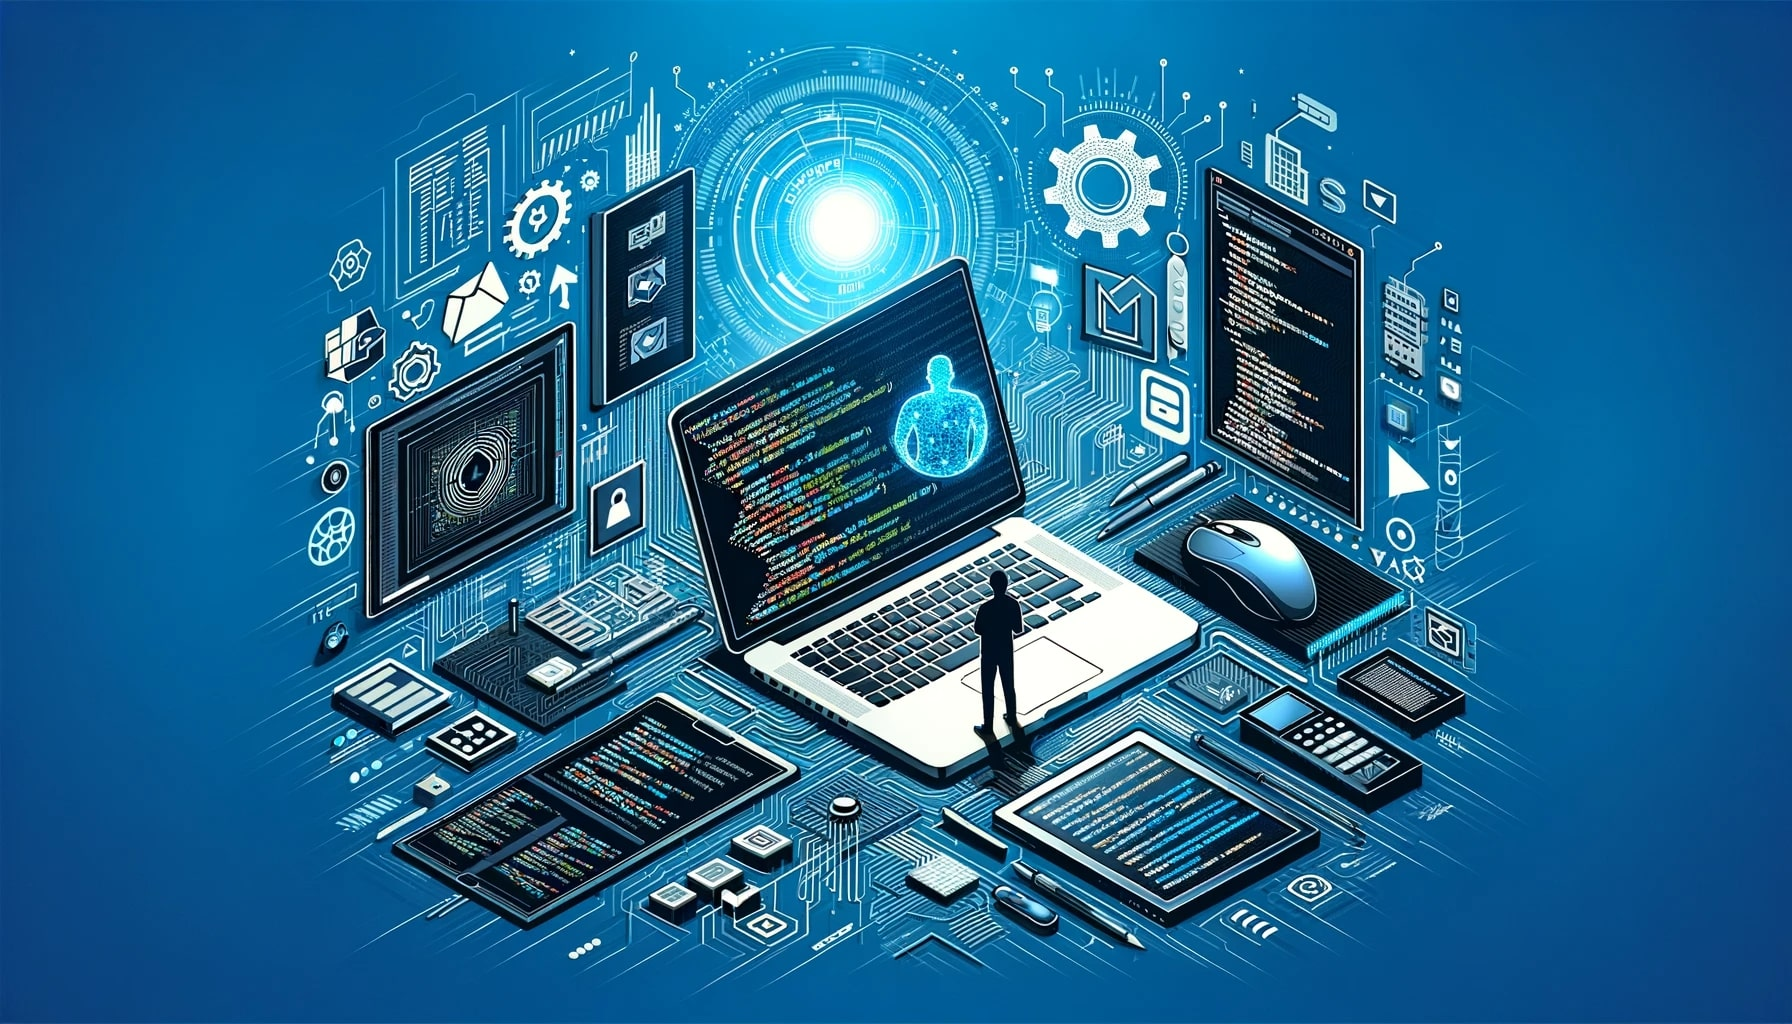
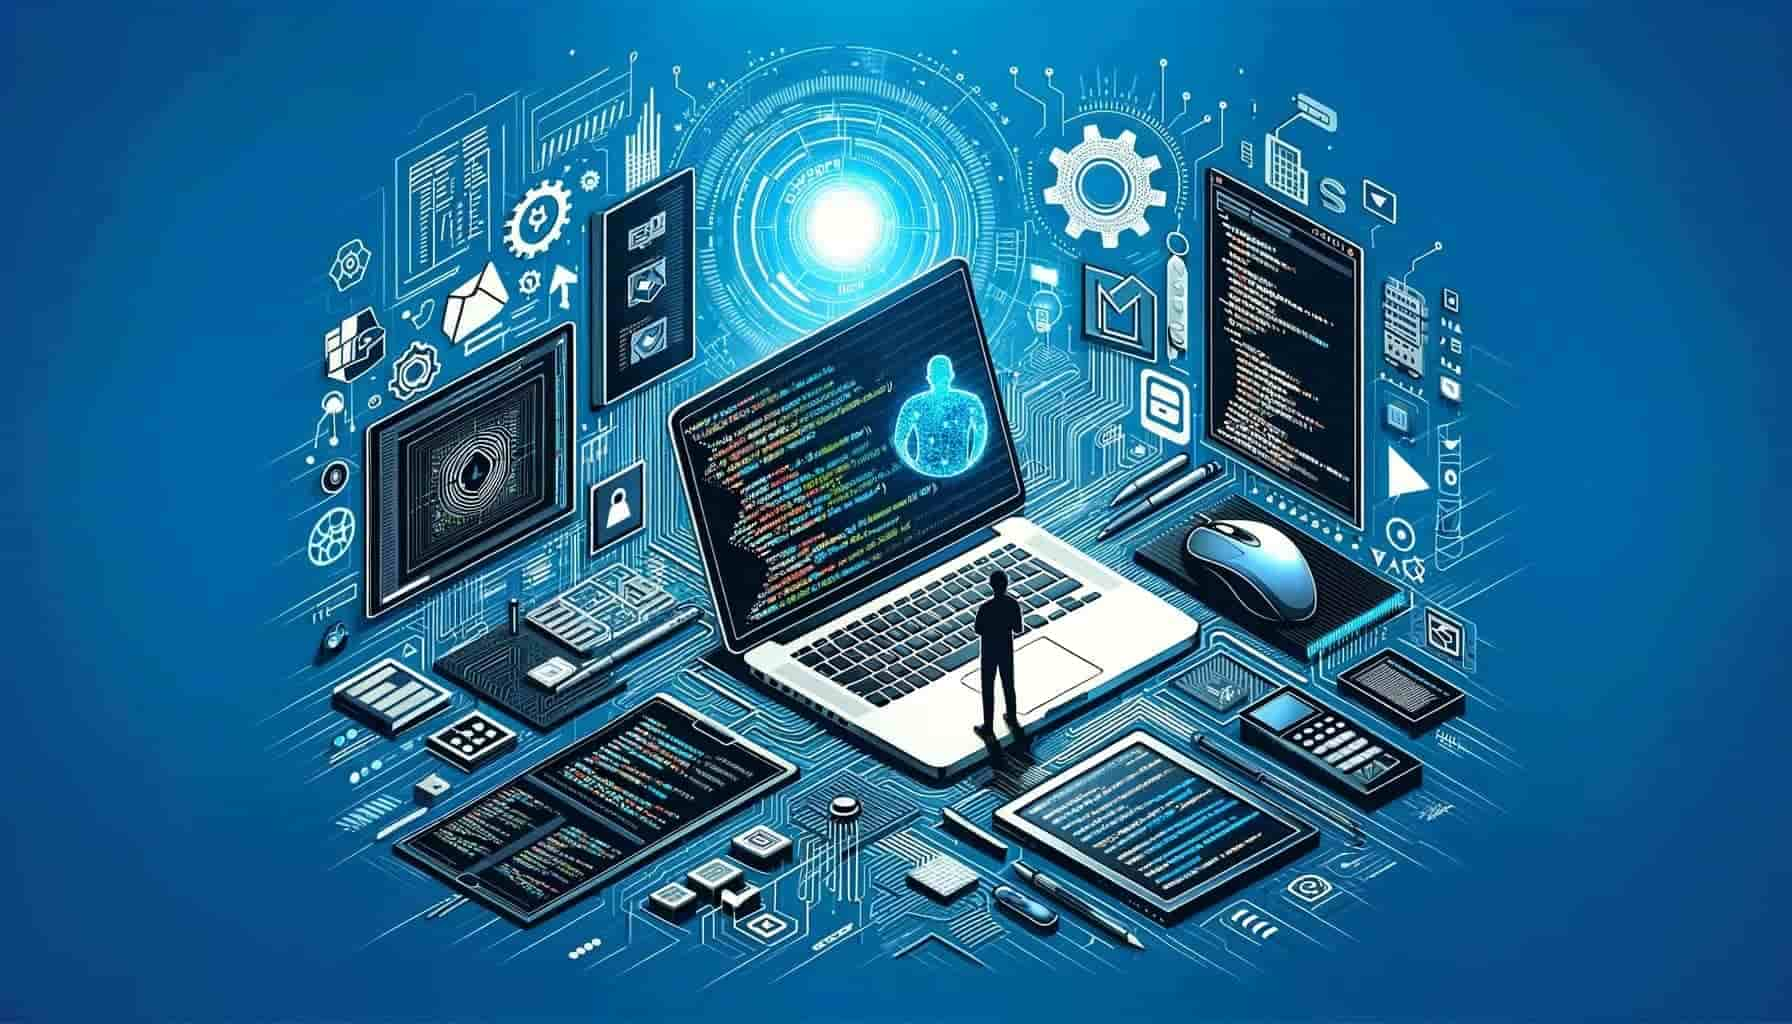
weather query added, pictures resized

Changed region(s): [[0.1562, 0.0625, 0.8438, 0.9375], [0.7188, 0.0938, 0.75, 0.125]]

diff --git a/src/components/projects/Projects.jsx b/src/components/projects/Projects.jsx
@@ -1,19 +1,19 @@
 import React from 'react';
 import sprite from '../../images/sprite.svg';
-import resume from '../../images/project-img-resume.png';
-import wizwork from '../../images/project-img-wizwork.png';
-import dental from '../../images/project-img-dental.png';
-import movie from '../../images/project-img-movie.png';
-import ball from '../../images/project-img-ball.png';
-import boards from '../../images/project-img-boards.png';
-import event from '../../images/project-img-event.png';
-import icecream from '../../images/project-img-icecream.png';
-import marsden from '../../images/project-img-marsden.png';
-import starwars from '../../images/project-img-starwars.png';
-import aimgame from '../../images/project-img-aimgame.png';
-import bookshop from '../../images/project-img-bookshop.png';
+import resume from '../../images/project-img-resume.jpg';
+import wizwork from '../../images/project-img-wizwork.jpg';
+import dental from '../../images/project-img-dental.jpg';
+import movie from '../../images/project-img-movie.jpg';
+import ball from '../../images/project-img-ball.jpg';
+import boards from '../../images/project-img-light.jpg';
+import event from '../../images/project-img-event.jpg';
+import icecream from '../../images/project-img-icecream.jpg';
+import marsden from '../../images/project-img-marsden.jpg';
+import starwars from '../../images/project-img-starwars.jpg';
+import aimgame from '../../images/project-img-aimgame.jpg';
+import bookshop from '../../images/project-img-bookshop.jpg';
 import renovation from '../../images/project-img-renovation.jpeg';
-import engineering from '../../images/project-img-AMwebsite.png';
+import engineering from '../../images/project-img-AMwebsite.jpg';
 import './Projects.css';
 
 const Projects = () => {
@@ -28,7 +28,7 @@ const Projects = () => {
             <div>
               <a
                 className="project-link"
-                href="https://yuliiadobrova-resume.vercel.app/"
+                href="https://yuliiadobrova.com/"
                 target="_blank"
                 rel="noopener noreferrer"
               >
@@ -119,40 +119,6 @@ const Projects = () => {
           <img src={wizwork} alt="wizwork" />
         </div>
 
-        {/* MARSDEN WEBSITE */}
-        <div className="project-card">
-          <div className="project-card-disc">
-            <h1 className="project-card-title">Personal Website</h1>
-            <div>
-              <a
-                className="project-link"
-                href="http://scott-marsden.netlify.app"
-                target="_blank"
-                rel="noopener noreferrer"
-              >
-                <svg className="project-icon" width="30" height="30">
-                  <use href={sprite + '#icon-link'}></use>
-                </svg>
-                <br />
-                <span className="project-link-text">Link to the Project</span>
-              </a>
-              <a
-                className="project-link"
-                href="https://github.com/YuliaDobrova/marsden-website"
-                target="_blank"
-                rel="noopener noreferrer"
-              >
-                <svg className="project-icon" width="30" height="30">
-                  <use href={sprite + '#icon-github'}></use>
-                </svg>
-                <br />
-                <span className="project-link-text">Link to the Code</span>
-              </a>
-            </div>
-          </div>
-          <img src={marsden} alt="marsden" />
-        </div>
-
         {/* MOVIE SEARCH*/}
         <div className="project-card">
           <div className="project-card-disc">
@@ -185,6 +151,40 @@ const Projects = () => {
             </div>
           </div>
           <img src={movie} alt="movie" />
+        </div>
+
+        {/* MARSDEN WEBSITE */}
+        <div className="project-card">
+          <div className="project-card-disc">
+            <h1 className="project-card-title">Personal Website</h1>
+            <div>
+              <a
+                className="project-link"
+                href="http://scott-marsden.netlify.app"
+                target="_blank"
+                rel="noopener noreferrer"
+              >
+                <svg className="project-icon" width="30" height="30">
+                  <use href={sprite + '#icon-link'}></use>
+                </svg>
+                <br />
+                <span className="project-link-text">Link to the Project</span>
+              </a>
+              <a
+                className="project-link"
+                href="https://github.com/YuliaDobrova/marsden-website"
+                target="_blank"
+                rel="noopener noreferrer"
+              >
+                <svg className="project-icon" width="30" height="30">
+                  <use href={sprite + '#icon-github'}></use>
+                </svg>
+                <br />
+                <span className="project-link-text">Link to the Code</span>
+              </a>
+            </div>
+          </div>
+          <img src={marsden} alt="marsden" />
         </div>
 
         {/* RENOVATION */}

diff --git a/src/components/weather/Weather.jsx b/src/components/weather/Weather.jsx
@@ -1,24 +1,36 @@
 import React, { useState, useEffect } from 'react';
 import { getWeatherForecast } from '../../services/WeatherService';
 import Loader from '../shared/loader/Loader';
+import MyInput from '../shared/input/MyInput';
+import MyButton from '../shared/button/MyButton';
 import './Weather.css';
 
 const defaultWeather = {
-  name: 'Kyiv',
+  name: 'Vancouver',
   weather: [{ main: 'Clouds', icon: '04d' }],
-  main: { temp: 19.0, feels_like: 17.0 },
+  main: {
+    feels_like: 28.26,
+    grnd_level: 1005,
+    humidity: 61,
+    pressure: 1013,
+    sea_level: 1013,
+    temp: 27.08,
+    temp_max: 30.16,
+    temp_min: 23.46,
+  },
 };
 
 const Weather = () => {
   const [isloading, setIsLoading] = useState(false);
   const [weatherData, setWeatherData] = useState(defaultWeather);
-  const [dataQuery, setDataQuery] = useState('Vancouver');
+  const [dataQuery, setDataQuery] = useState('');
 
   async function getWeatherData() {
     try {
       setIsLoading(true);
       await getWeatherForecast(dataQuery).then(response => {
         setWeatherData({ ...response });
+        console.log('response', response);
       });
       setIsLoading(false);
     } catch (e) {
@@ -30,9 +42,25 @@ const Weather = () => {
     getWeatherData();
   }, []);
 
+  const onInputChange = e => {
+    setDataQuery(e.target.value);
+  };
+  const onInputSubmit = () => {
+    getWeatherData();
+  };
+
   return (
     <>
       {isloading && <Loader />}
+      <div className="weatherInputWrapper">
+        <MyInput
+          value={dataQuery}
+          placeholder="Enter city name"
+          onChange={onInputChange}
+        />
+        <MyButton onClick={onInputSubmit}>Get weather forecast</MyButton>
+      </div>
+
       <div id="weather" className="weather">
         <div className="weather__city-name">{weatherData.name}</div>
         <div className="weather__header">

diff --git a/src/components/speech/Speech.jsx b/src/components/speech/Speech.jsx
@@ -1,0 +1,51 @@
+import React, { useState } from 'react';
+import MyInput from '../shared/input/MyInput';
+import MyButton from '../shared/button/MyButton';
+
+const Speech = () => {
+  const [speech, setSpeech] = useState('');
+
+  function handleSpeech(e) {
+    e.preventDefault();
+    console.log('handleSpeech', e.currentTarget.value);
+    setSpeech(e.currentTarget.value);
+  }
+
+  function speak() {
+    const utterance = new SpeechSynthesisUtterance(speech);
+    speechSynthesis.speak(utterance);
+  }
+
+  function clear() {
+    setSpeech('');
+  }
+
+  return (
+    <div>
+      <h4
+        style={{
+          textAlign: 'center',
+          marginBottom: 10,
+          letterSpacing: '0.03em',
+        }}
+      >
+        Try to type and hear your text!
+      </h4>
+      <div style={{ display: 'flex', justifyContent: 'center' }}>
+        <MyInput
+          id="speechinput"
+          type="text"
+          autoComplete="off"
+          value={speech}
+          placeholder="Enter text"
+          onChange={e => handleSpeech(e)}
+          style={{ width: 300, textAlign: 'center' }}
+        />
+        <MyButton onClick={speak}>Speak</MyButton>
+        <MyButton onClick={clear}>Clear</MyButton>
+      </div>
+    </div>
+  );
+};
+
+export default Speech;

diff --git a/src/pages/HomePage.jsx b/src/pages/HomePage.jsx
@@ -1,8 +1,7 @@
-import React, { useContext, useState } from 'react';
+import React, { useContext } from 'react';
 import EarthAnimation from '../components/earthAnimation/EarthAnimation';
 import Hero from '../components/hero/Hero';
 import Title from '../components/title/Title';
-import MyButton from '../components/shared/button/MyButton';
 import ShiningBtn from '../components/shiningBtn/ShiningBtn';
 import TypingText from '../components/typingText/TypingText';
 import { AuthContext } from '../components/context';
@@ -50,6 +49,7 @@ const HomePage = () => {
               <a
                 href="https://github.com/YuliaDobrova/react-practice-app"
                 target="_blank"
+                rel="noreferrer"
                 style={{ textDecoration: 'underline', color: '#61dafb' }}
               >
                 GitHub

diff --git a/src/components/typingText/TypingText.jsx b/src/components/typingText/TypingText.jsx
@@ -1,7 +1,7 @@
 import React, { useState } from 'react';
 import Modal from '../../components/shared/modal/Modal';
-import photo from '../../images/Yulia.png';
-import goit from '../../images/goit.png';
+import photo from '../../images/Yulia.jpg';
+import goit from '../../images/goit.jpg';
 // import Typed from 'react-typed';
 //to install react-typed used this: npm i react-typed --legacy-peer-deps
 import './TypingText.css';
@@ -64,6 +64,7 @@ const TypingText = () => {
             <a
               href="https://github.com/YuliaDobrova/react-practice-app"
               target="_blank"
+              rel="noreferrer"
               style={{ textDecoration: 'underline', color: '#61dafb' }}
             >
               GitHub

diff --git a/src/pages/FunctionalPage.jsx b/src/pages/FunctionalPage.jsx
@@ -15,6 +15,7 @@ import DateComponent from '../components/date/DateComponent';
 import ResponsivePhrase from '../components/responsivePhrase/ResponsivePhrase';
 import useWindowDimensions from '../hooks/widthHook';
 import NewYearTimer from '../components/newYearTimer/TimerBitrhday';
+import Speech from '../components/speech/Speech';
 
 const FunctionalPage = () => {
   const { width } = useWindowDimensions();
@@ -41,6 +42,8 @@ const FunctionalPage = () => {
       <Timer />
       <hr style={{ margin: 15 }} />
       <RandomNumber />
+      <hr style={{ margin: 15 }} />
+      <Speech />
       <hr style={{ margin: 15 }} />
       <ColorSwitcher />
       <hr style={{ margin: 15 }} />

diff --git a/src/components/weather/Weather.css b/src/components/weather/Weather.css
@@ -1,3 +1,22 @@
+.weatherInputWrapper {
+  display: flex;
+  flex-direction: column;
+  justify-content: space-evenly;
+  margin-bottom: 30px;
+  width: 300px;
+}
+.weatherInputWrapper button {
+  width: 200px;
+  margin-left: auto;
+  margin-right: auto;
+}
+@media screen and (min-width: 768px) {
+  .weatherInputWrapper {
+    flex-direction: row;
+    width: 800px;
+  }
+}
+
 .weather {
   background-color: rgba(139, 152, 178, 0.15);
   border: 1px solid #61dafb;

diff --git a/src/components/hero/HeroStyled.js b/src/components/hero/HeroStyled.js
@@ -90,13 +90,14 @@ export const HeroStyled = styled.div`
     animation-timing-function: linear;
 
     @keyframes rocketScale {
-      from {
+      0% {
         transform: scale(0.75);
-        /* transform: rotate(45deg); */
       }
-      to {
+      50% {
         transform: scale(1);
-        /* transform: rotate(45deg); */
+      }
+      100% {
+        transform: scale(0.75);
       }
     }
 

diff --git a/src/services/WeatherService.js b/src/services/WeatherService.js
@@ -2,7 +2,7 @@ import axios from 'axios';
 
 const WEATHER_API_KEY = process.env.REACT_APP_WEATHER_API_KEY;
 
-export const getWeatherForecast = async (query = "Kyiv") => {
+export const getWeatherForecast = async (query = 'Vancouver') => {
   try {
     const response = await axios.get(
       `https://api.openweathermap.org/data/2.5/weather?units=metric&q=${query}&appid=${WEATHER_API_KEY}`,

diff --git a/src/components/RunningCard/RunningCard.jsx b/src/components/RunningCard/RunningCard.jsx
@@ -1,6 +1,6 @@
-import React, { useEffect } from 'react';
+import React from 'react';
 import { useState } from 'react';
-import ballImage from '../../images/magic-ball.png';
+import ballImage from '../../images/magic-ball.jpg';
 import MyButton from '../shared/button/MyButton';
 import './RunningCard.css';
 

diff --git a/src/components/earthAnimation/EarthAnimation.css b/src/components/earthAnimation/EarthAnimation.css
@@ -5,7 +5,7 @@
   margin: 0 auto;
   border-radius: 50%;
   border: 3px solid #000;
-  background-image: url('../../images/earth.png');
+  background-image: url('../../images/earth.jpg');
   background-repeat: no-repeat;
   background-size: cover;
 }

diff --git a/src/index.css b/src/index.css
@@ -14,7 +14,7 @@ body {
       rgba(0, 0, 0, 0.5),
       rgba(0, 0, 0, 0.5)
     ),
-    url(./images/stars-sky.png);
+    url(./images/stars-sky.jpg);
   background-position: center;
   background-repeat: repeat;
   background-size: contain;
